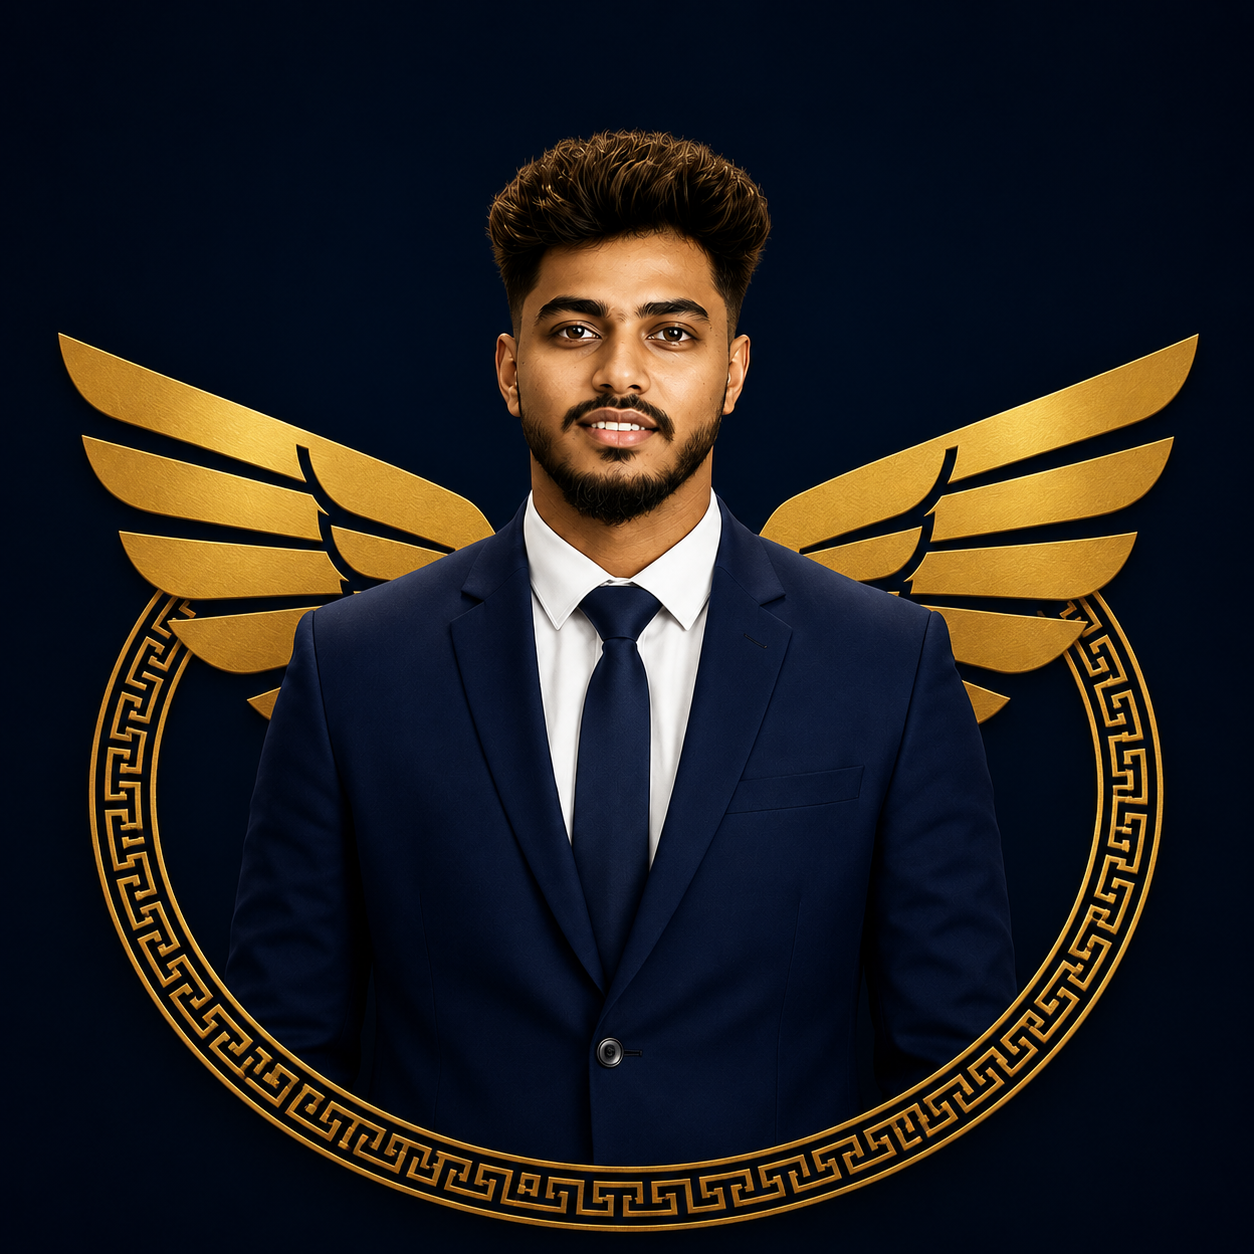
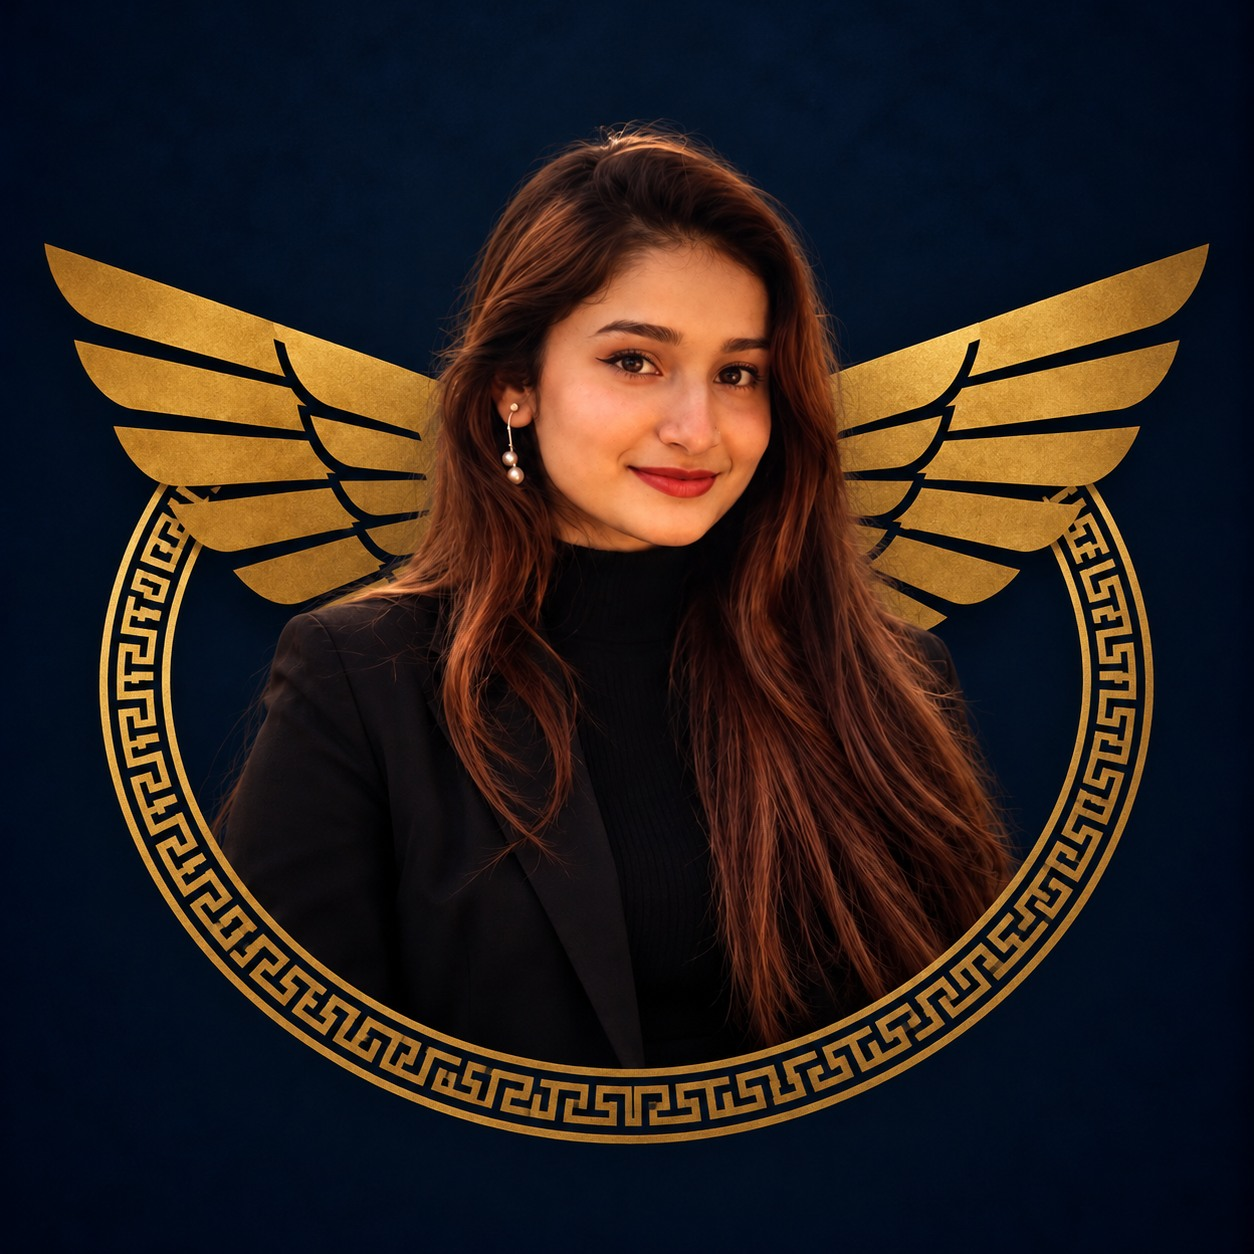
chore: update Our Gods team card details and photos
- RINI/ARTEMIS "Director of Partnerships" -> GUNN KADAM/ARTEMIS "Sales Partner"
- KRITHICK SURYA/POSEIDON "Chief Revenue Officer" -> ANVESHA VERMA/AURA
  "Business Development Partner"
- New headshots for both cards (reusing existing rini.jpg/karthick.jpg
  filenames); fixed the same recurring PNG-saved-as-.jpg mismatch bug
  by re-encoding both to real JPEGs.

diff --git a/src/App.jsx b/src/App.jsx
@@ -3079,9 +3079,9 @@ const OurGods = () => {
   const gods = [
     { tag: "MATHY",          n: "ARES",       r: "Founder & CEO",           img: imgZeus,     desc: "Sovereign growth engine, algorithmic visibility leadership, and strategic dominance architecture." },
     { tag: "TAMIL NILAVAN",  n: "APOLLO",     r: "Co-Founder & CMO",        img: imgApollo,   desc: "High-end luxury interfaces, digital design paradigms, and brand asset layouts that visually command." },
-    { tag: "RINI",           n: "ARTEMIS",    r: "Director of Partnerships", img: imgRini,     desc: "Razor-sharp targeting intelligence, precision audience acquisition, and strategic hit-rate optimization at elite scale." },
+    { tag: "GUNN KADAM",     n: "ARTEMIS",    r: "Sales Partner",            img: imgRini,     desc: "Razor-sharp targeting intelligence, precision audience acquisition, and strategic hit-rate optimization at elite scale." },
     { tag: "NAYANA SAI",     n: "APHRODITE",  r: "Creative Director",        img: imgNayana,   desc: "Irresistible brand narratives, cultural influence engineering, and audience connection at the highest tier." },
-    { tag: "KRITHICK SURYA", n: "POSEIDON",   r: "Chief Revenue Officer",    img: imgKarthick, desc: "Relentless market penetration, strategic partnership dominance, and territory expansion at oceanic scale." },
+    { tag: "ANVESHA VERMA",  n: "AURA",       r: "Business Development Partner", img: imgKarthick, desc: "Relentless market penetration, strategic partnership dominance, and territory expansion at oceanic scale." },
     { tag: "GAIYASHREE",     n: "ATHENA",     r: "Marketing Director",       img: imgAthena,   desc: "Brand transformation intelligence, predictive enterprise alignment, and high-tier market positioning." },
   ];
 
